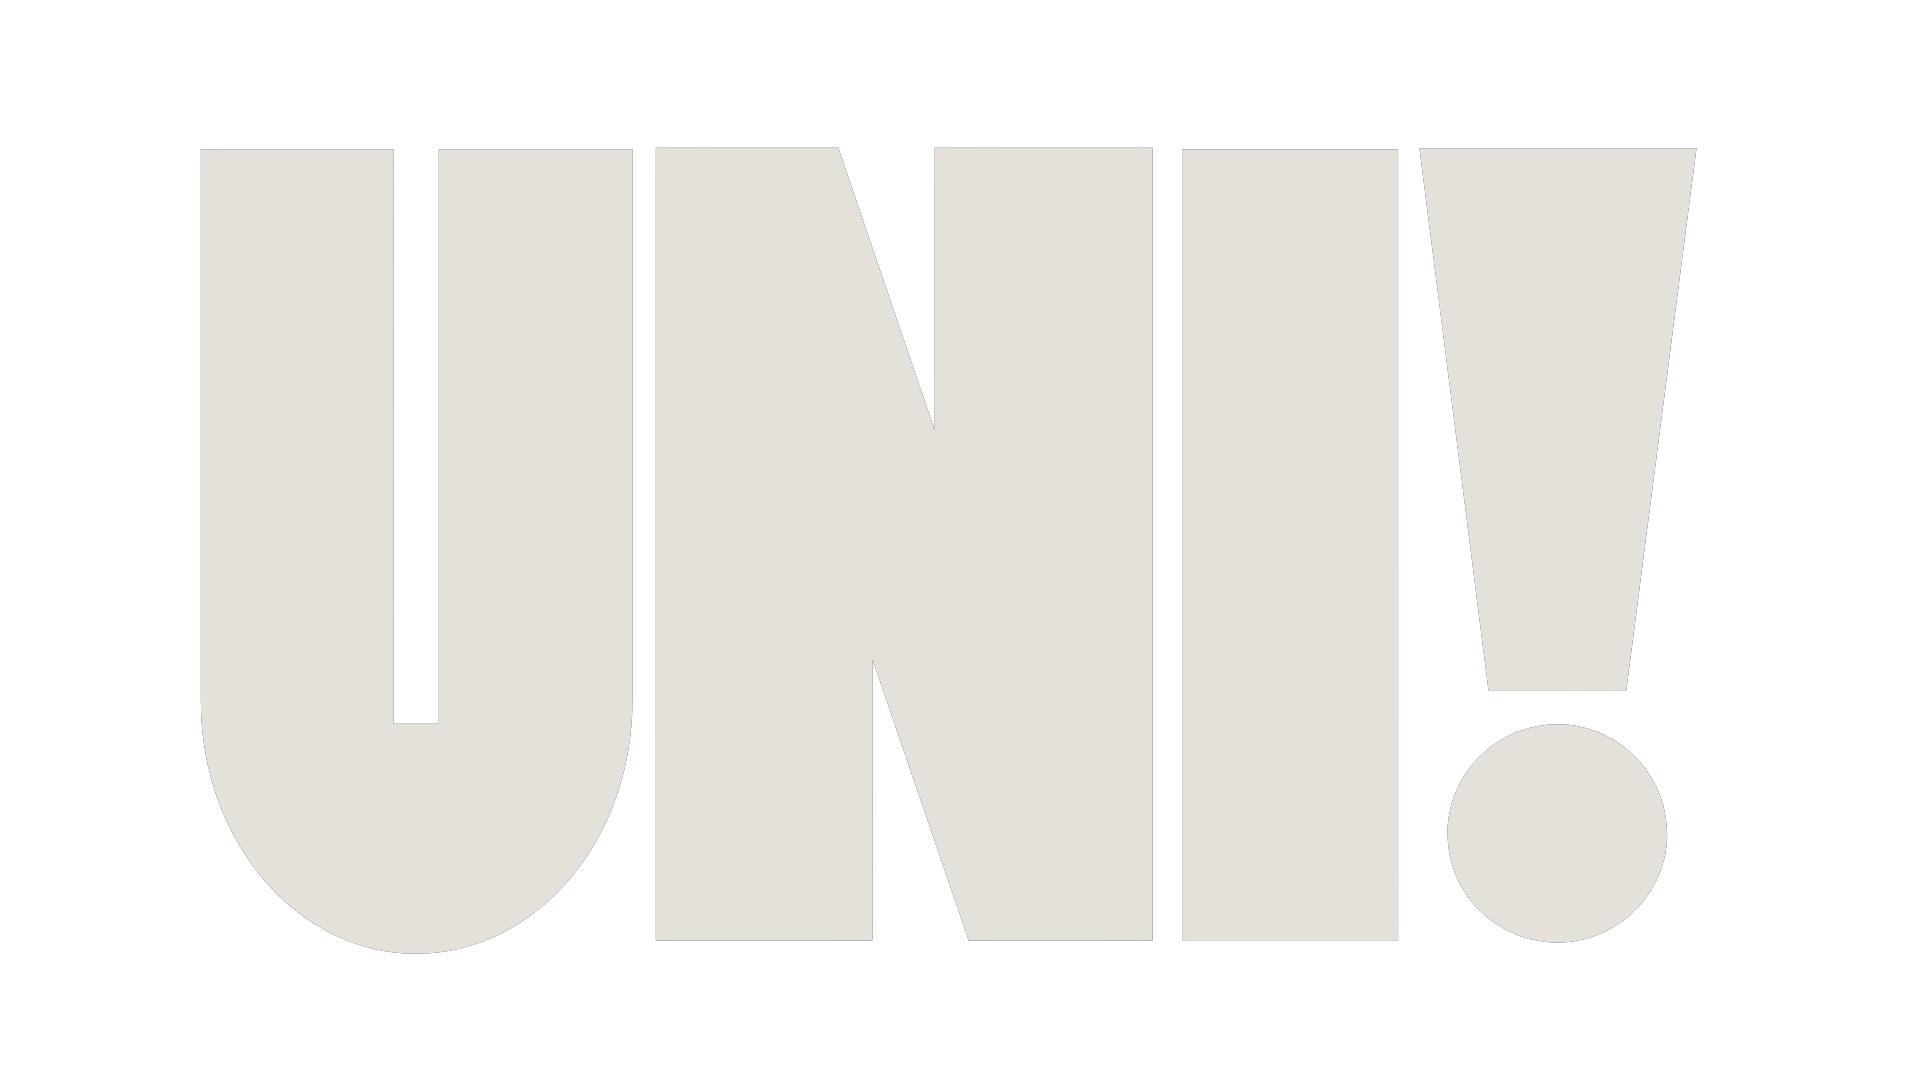
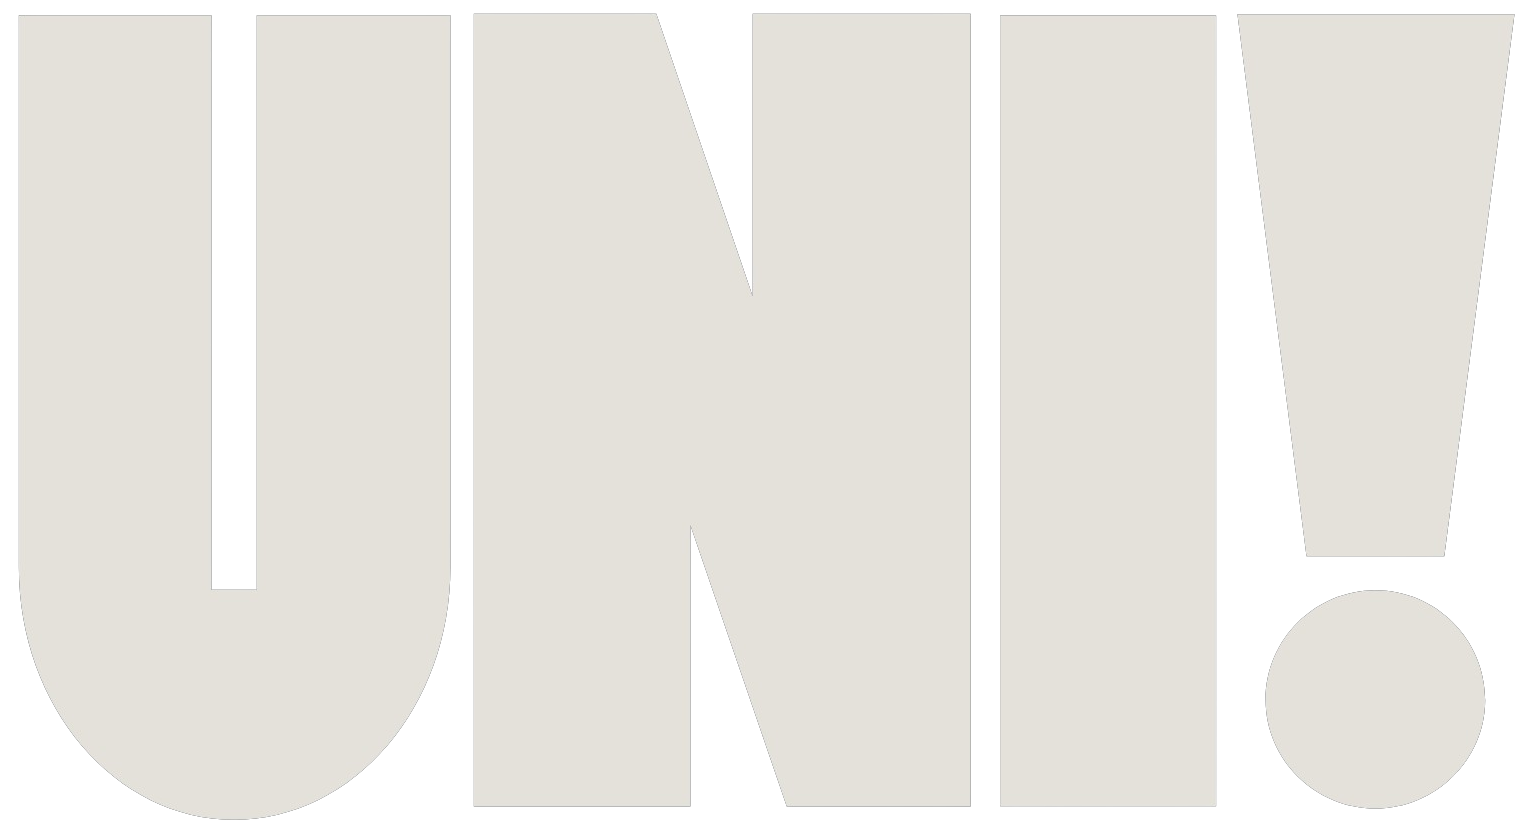
teste vercel

diff --git a/unitalk.html b/unitalk.html
@@ -53,6 +53,49 @@
     <main id="sites">
         <div class="ajuda">
             <h1 class="lista">LISTA DE SITES QUE PODEM TE AJUDAR</h1>
+            <ul class="alinhamento">
+                <li class="ajuste">
+                    <a class="links" href="https://avamec.mec.gov.br/#/">Ava Mec</a>
+                    <a class="links"
+                        href="https://ead.senar.org.br/matriculas-abertas?utm_source=google&utm_medium=cpc&utm_campaign=ga-conversao-matriculas-abertas&utm_source=google&utm_medium=cpc&utm_campaign=DOT-SENARNA_matriculas-abertas&gad_source=1&gclid=Cj0KCQjwgJyyBhCGARIsAK8LVLPqY2YjX3LMwitw41xSuKkxbTttLmPkvHeyK3Crgb9DL8xiZL6JGLsaAnVVEALw_wcB ">Senar</a>
+                    <a class="links" href="https://www.ev.org.br/ ">Fundação Bradesco</a>
+                    <a class="links"
+                        href="https://digital.sestsenat.org.br/cursos?gad_source=1&gclid=Cj0KCQjwgJyyBhCGARIsAK8LVLMEpNx8vSwIdIqUcp_L2l3B95w0m6TUyp3kP2OCoHcQhyAOwLvvFYEaAicBEALw_wcB ">SEST
+                        SENAT</a>
+                    <a class="links" href="https://audienciasonline.com.br/#/home">Audiências Online</a>
+                    <a class="links" href="https://online.pucrs.br/formacao-gratuita">PUCRS Online</a>
+                    <a class="links" href="https://educacao-executiva.fgv.br/Cursos/Gratuitos">FGV</a>
+                    <a class="links" href="https://palestras.online/#/home">Palestras Online</a>
+                    <a class="links" href="https://cadastro.escoladotrabalhador40.com.br/">Escola do Trabalhador</a>
+                </li>
+            </ul>
+            <ul class="alinhamento">
+                <li class="ajuste">
+                    <a class="links2" href="https://www.unasus.gov.br/">Una SUS</a>
+                    <a class="links2" href="https://www.escolavirtual.gov.br/">Escola Virtual do Governo</a>
+                    <a class="links2" href="https://saberes.senado.leg.br/">Saberes - Senado</a>
+                    <a class="links2" href="https://www.cnj.jus.br/eadcnj/course/index.php?categoryid=119">CNJ</a>
+                    <a class="links2" href="https://veduca.org/">Veduca</a>
+                    <a class="links2" href="https://esa.oab.org.br/home/ver-cursos?filter_categories_id%5B%5D=24">ESA
+                        OAB</a>
+                    <a class="links2" href="https://enap.gov.br/pt/">Enap</a>
+                    <a class="links2" href="https://mundi.ifsul.edu.br/portal/">IFSUL Mundi</a>
+                </li>
+            </ul>
+            <!-- <ul class="alinhamento">
+                <li class="ajuste">
+                    <a class="link3" href="https://www.pensarcursos.com.br/cursos">Pensar Cursos</a>
+                    <a class="link3" href="https://cursoseducaweb.com.br/">Cursos EducaWeb</a>
+                    <a class="link3" href="https://www.realizzarecursos.com.br/">Realizzare</a>
+                    <a class="link3" href="https://cursa.app/pt">CURSA</a>
+                    <a class="link3" href="https://www.coursera.org/courses?query=free">COURSERA</a>
+                    <a class="link3" href="https://kultivi.com/sobre-a-kultivi">KULTIVI</a>
+                    <a class="link3" href="https://grow.google/intl/pt/courses-and-tools/">Cursos Online do Google</a>
+                    <a class="link3" href="https://cursos.iadb.org/en?lang=en">BID</a>
+                    <a class="link3"
+                        href="https://cursos.intelbras.com.br/portal/layout/927/intelbras/home.asp?V29ya3NwYWNlSUQ9MTI1MCZrdF9kaWRheGlzPXRvcA#/home">iTEC</a>
+                </li>
+            </ul> -->
         </div>
     </main>
 </body>

diff --git a/home.html b/home.html
@@ -7,6 +7,7 @@
     <link rel="stylesheet" href="style.css" />
     <link rel="preconnect" href="https://fonts.googleapis.com">
     <link rel="preconnect" href="https://fonts.gstatic.com" crossorigin>
+    <script src="home.js"></script>
     <link href="https://fonts.googleapis.com/css2?family=Passion+One:wght@400;700;900&display=swap" rel="stylesheet">
     <link rel="shortcut icon" href="./img/" type="image/x-icon">
     <link rel="import" href="unitalk.html">
@@ -27,9 +28,9 @@
     <main id="inicio">
         <div class="inicial">
             <img src="./img/UNI!.png" alt="UNI!" class="uni">
-            <p>Um grupo de estudantes se ajudando a se tornarem os melhores estudantes que podemos ser
+            <p class="texto4">Um grupo de estudantes se ajudando a se tornarem os melhores estudantes que podemos ser
                 junte-se ao UNIHELP! e faça parte da comunidade de apoio total na hora dos estudos </p>
-            <button class="saiba_mais" onclick="">SAIBA MAIS</button>
+            <a id="saiba_mais" href="#aboutUS">SAIBA MAIS</a>
         </div>
     </main>
 
@@ -73,18 +74,23 @@
         <h1 class="title3">COMO VALIDAR SUAS <a href="unihelp.html" class="link">HORAS NO ULIFE?</a></h1>
         <img src="./img/binoculo.png" alt="binoculo" class="binoculo">
         <div class="texto3">
+            <a href="unihelp.html">
                 <img src="img/seta.png" alt="seta" class="seta" onclick="uni()">
+            </a>
         </div>
     </main>
 
     <main id="unitalk">
         <div class="chat">
-            <img src="./img/UNITALK!.png" alt="UNITALK" class="unitalk">
+            <a href="unitalk.html">
+                <img src="./img/UNITALK!.png" alt="UNITALK" class="unitalk">
+            </a>
             <p>
                 DICAS DE SITES E DICAS DE ESTUDANTES <br>
-                <a href="unitalk.html" class="dicas">ESTUDANTE PARA ESTUDANTE</a>
+            <p class="dicas">ESTUDANTE PARA ESTUDANTE</p>
             </p>
         </div>
     </main>
 </body>
+
 </html>

diff --git a/style.css b/style.css
@@ -47,15 +47,22 @@ nav {
     top: 0;
     left: 0;
     right: 0;
+    align-content: center;
+    align-items: center;
 }
 
 nav a {
+    text-align: center;
+    display: inline-grid;
     color: rgb(228, 225, 218);
     font-family: "Passion One", sans-serif;
     font-weight: 400;
     font-style: normal;
+    align-content: center;
     font-size: 18px;
     text-decoration: none;
+    align-items: center;
+    position: relative;
 }
 
 nav a:hover {
@@ -82,7 +89,7 @@ ul a {
     text-align: center;
     position: relative;
     color: rgb(228, 225, 218);
-    top: 90px;
+    top: 35px;
     font-family: "Passion One", sans-serif;
     font-weight: 400;
     font-style: normal;
@@ -90,12 +97,28 @@ ul a {
 }
 
 .uni {
-    width: 60%;
+    width: 65%;
     height: 90%;
 }
 
-.saiba_mais {
+.texto4 {
+    font-family: "Passion One", sans-serif;
+    font-weight: 400;
+    font-style: normal;
+    font-size: 26px;
     margin: 30px;
+    align-content: center;
+    text-align: center;
+    position: relative;
+    margin: 0;
+    padding: 0;
+    width: 70%;
+    left: 215px;
+
+}
+
+#saiba_mais {
+    margin: 2px;
     width: 205px;
     height: 50px;
     border-color: #FB6C14;
@@ -107,6 +130,9 @@ ul a {
     font-style: normal;
     font-size: 20px;
     cursor: pointer;
+    display: inline-grid;
+    align-content: center;
+    text-decoration: none;
 }
 
 /*PAGINA 2 - QUEM SOMOS?*/
@@ -153,7 +179,8 @@ ul a {
     height: 50%;
     align-items: end;
     display: flex;
-    text-align: center;
+    letter-spacing: 2px;
+    text-align: left;
     align-content: flex-end;
     left: 896px;
     font-size: 25px
@@ -185,6 +212,8 @@ ul a {
     font-family: "Passion One", sans-serif;
     font-weight: 400;
     font-style: normal;
+    letter-spacing: 2px;
+    text-align: right;
 }
 
 .title {

diff --git a/unitalk.css b/unitalk.css
@@ -114,7 +114,7 @@ ul a {
     top: -35px;
     position: relative;
     /*height: 938px; */
-    width: 206vh;
+    width: 100%;
     height: 90vh;
 }
 
@@ -188,8 +188,7 @@ ul a {
 #sites {
     height: 90vh;
     margin: auto;
-    max-width: 100%;
-    min-width: 320px;
+    width: 100%;
     background: #D9D9D9;
 }
 
@@ -201,6 +200,60 @@ ul a {
     font-size: 80px;
     align-content: center;
     text-align: center;
+    position: relative;
+}
+
+.links {
+    color: #FB6C14;
+    text-decoration: none;
+    text-align: center;
+    width: 187px;
+    align-content: center;
+    font-size: 40px;
+    font-family: "Passion One", sans-serif;
+    font-weight: 400;
+    font-style: normal;
+    align-items: center;
+    top: 110px;
+    position: relative;
+}
+
+.ajuste{
+    text-align: center;
+    width: 90%;
+    height: 80%;
+    position: relative;
+    display: flex;
+    left: 110px;
+}
+
+.links2 {
+    color: #FB6C14;
+    text-decoration: none;
+    text-align: center;
+    width: 215px;
+    align-content: center;
+    font-size: 40px;
+    font-family: "Passion One", sans-serif;
+    font-weight: 400;
+    font-style: normal;
+    align-items: center;
+    top: 220px;
+    position: relative;
+}
+
+.link3{
+    color: #FB6C14;
+    text-decoration: none;
+    text-align: center;
+    width: 215px;
+    align-content: center;
+    font-size: 40px;
+    font-family: "Passion One", sans-serif;
+    font-weight: 400;
+    font-style: normal;
+    align-items: center;
+    top: 290px;
     position: relative;
 }
 

diff --git a/unihelp.css b/unihelp.css
@@ -83,7 +83,6 @@ ul a {
 
 .validar {
     margin: 4px;
-    ;
     width: 435px;
     height: 50px;
     background: #450057;
@@ -96,6 +95,10 @@ ul a {
     left: 535px;
     font-size: 20px;
     position: relative;
+    display: inline-grid;
+    align-content: center;
+    text-align: center;
+    text-decoration: none;
 }
 
 /*PAGINA 2 - AQUI TE MOSTRAREMOS O PASSO A PASSO DE COMO VALIDAR SUAS HORAS EXTRAS NO ULIFE*/
@@ -110,8 +113,8 @@ ul a {
     top: -35px;
     position: relative;
     /*height: 938px; */
-    width: 206vh;
-    height: 95vh;
+    width: 100%;
+    height: 90vh;
 }
 
 .dance {

diff --git a/unihelp.html b/unihelp.html
@@ -24,7 +24,7 @@
         <div class="ajudar">
             <img src="./img/unihelp.png" alt="UNIHELP!" class="unihelp">
         </div>
-        <button class="validar">COMO VALIDAR AS HORAS NO ULIFE?</button>
+        <a class="validar" href="#danca">COMO VALIDAR AS HORAS NO ULIFE?</a>
     </main>
 
     <main id="danca">
